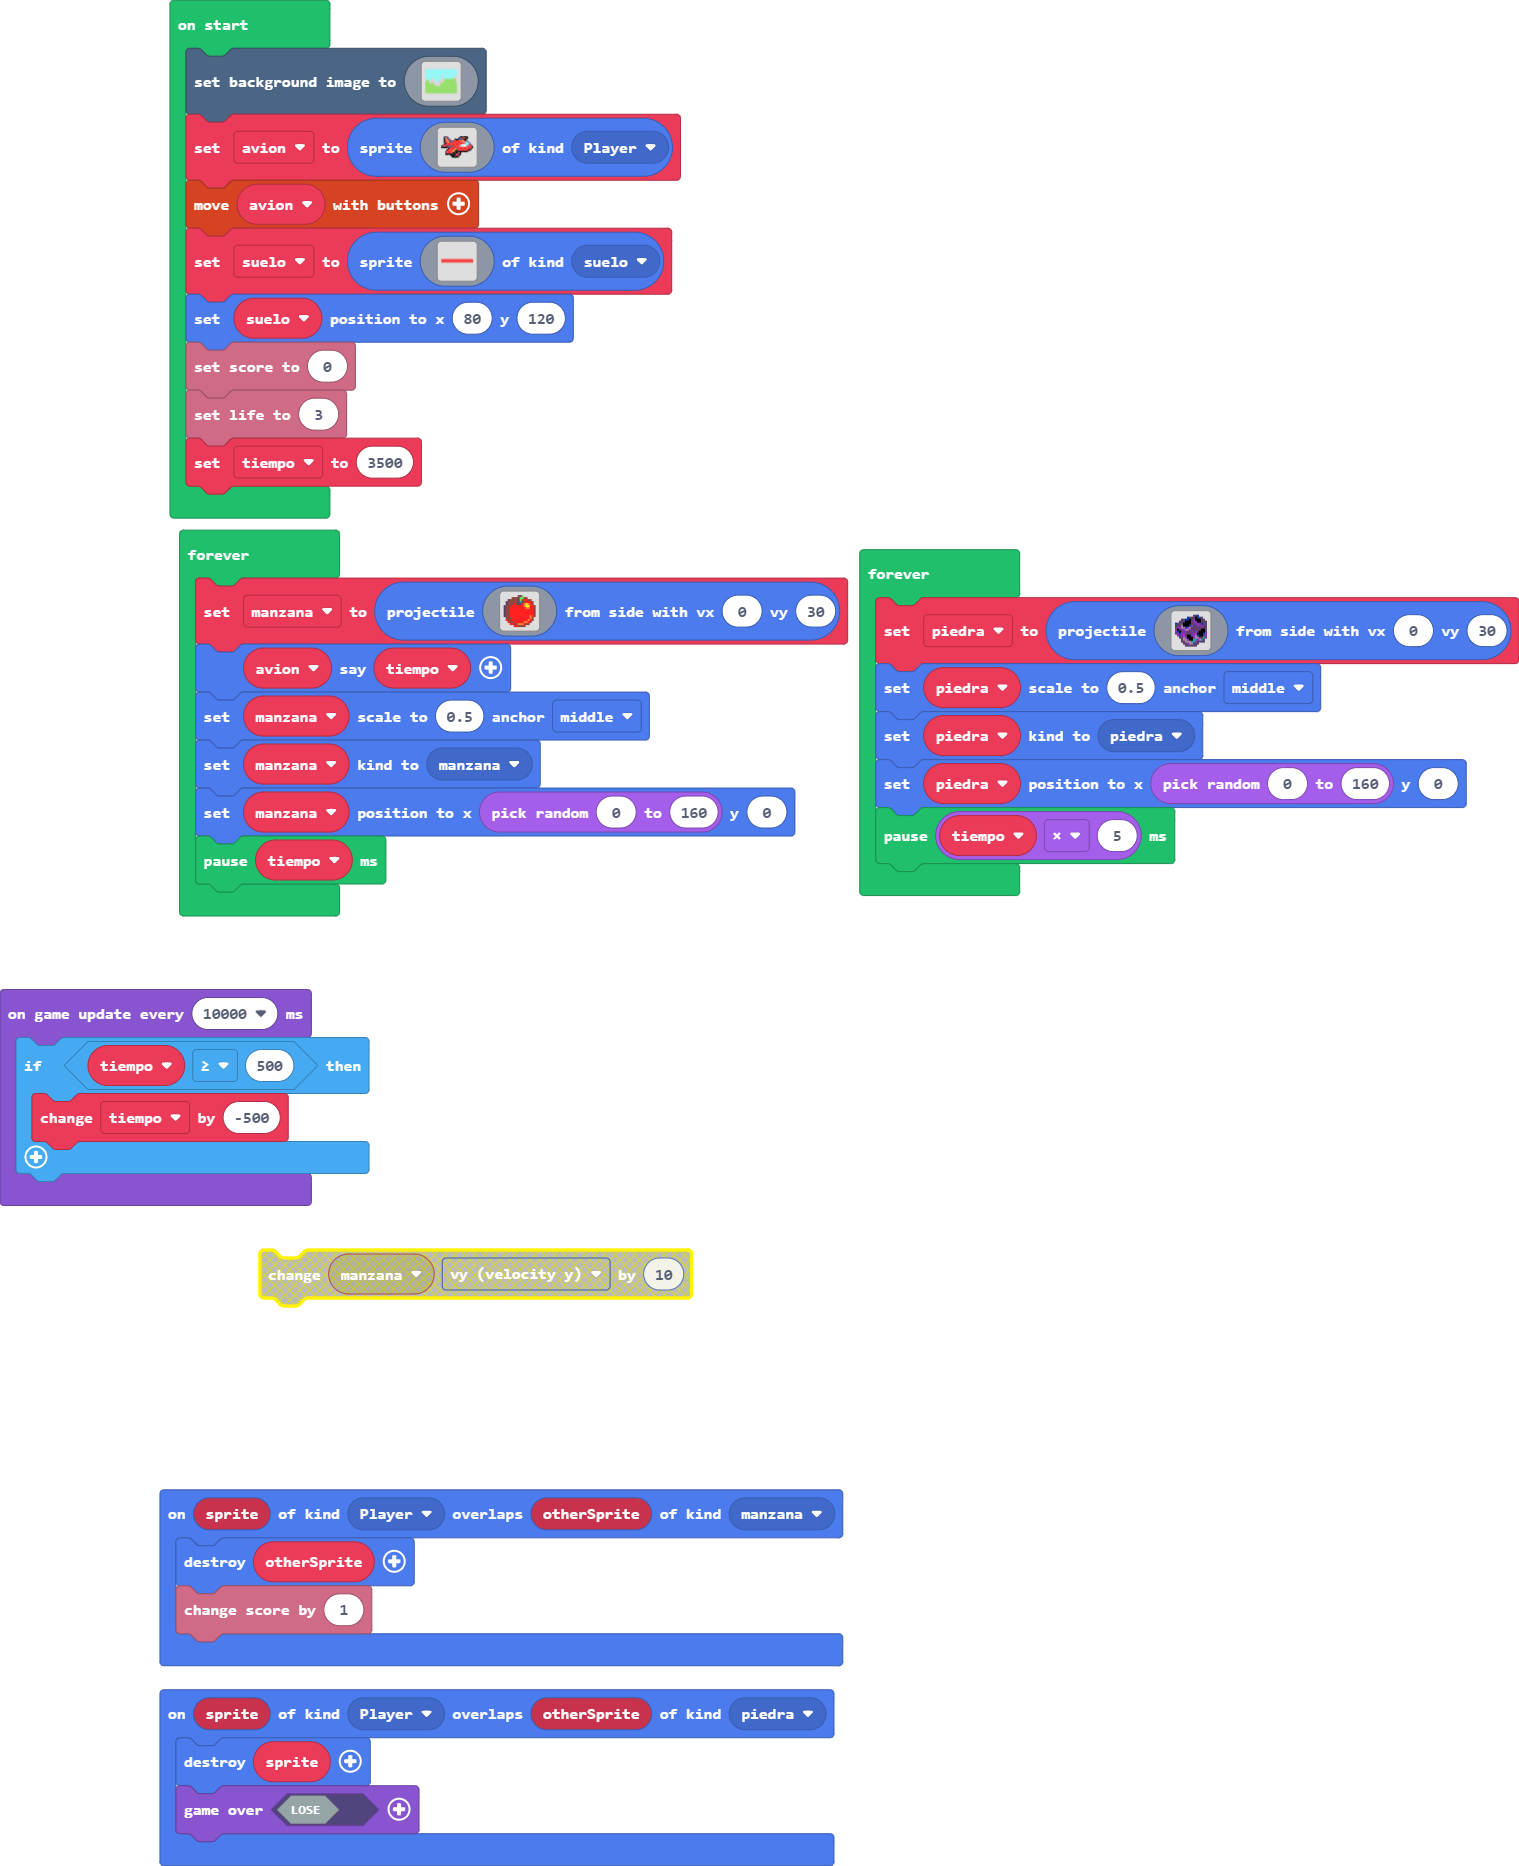
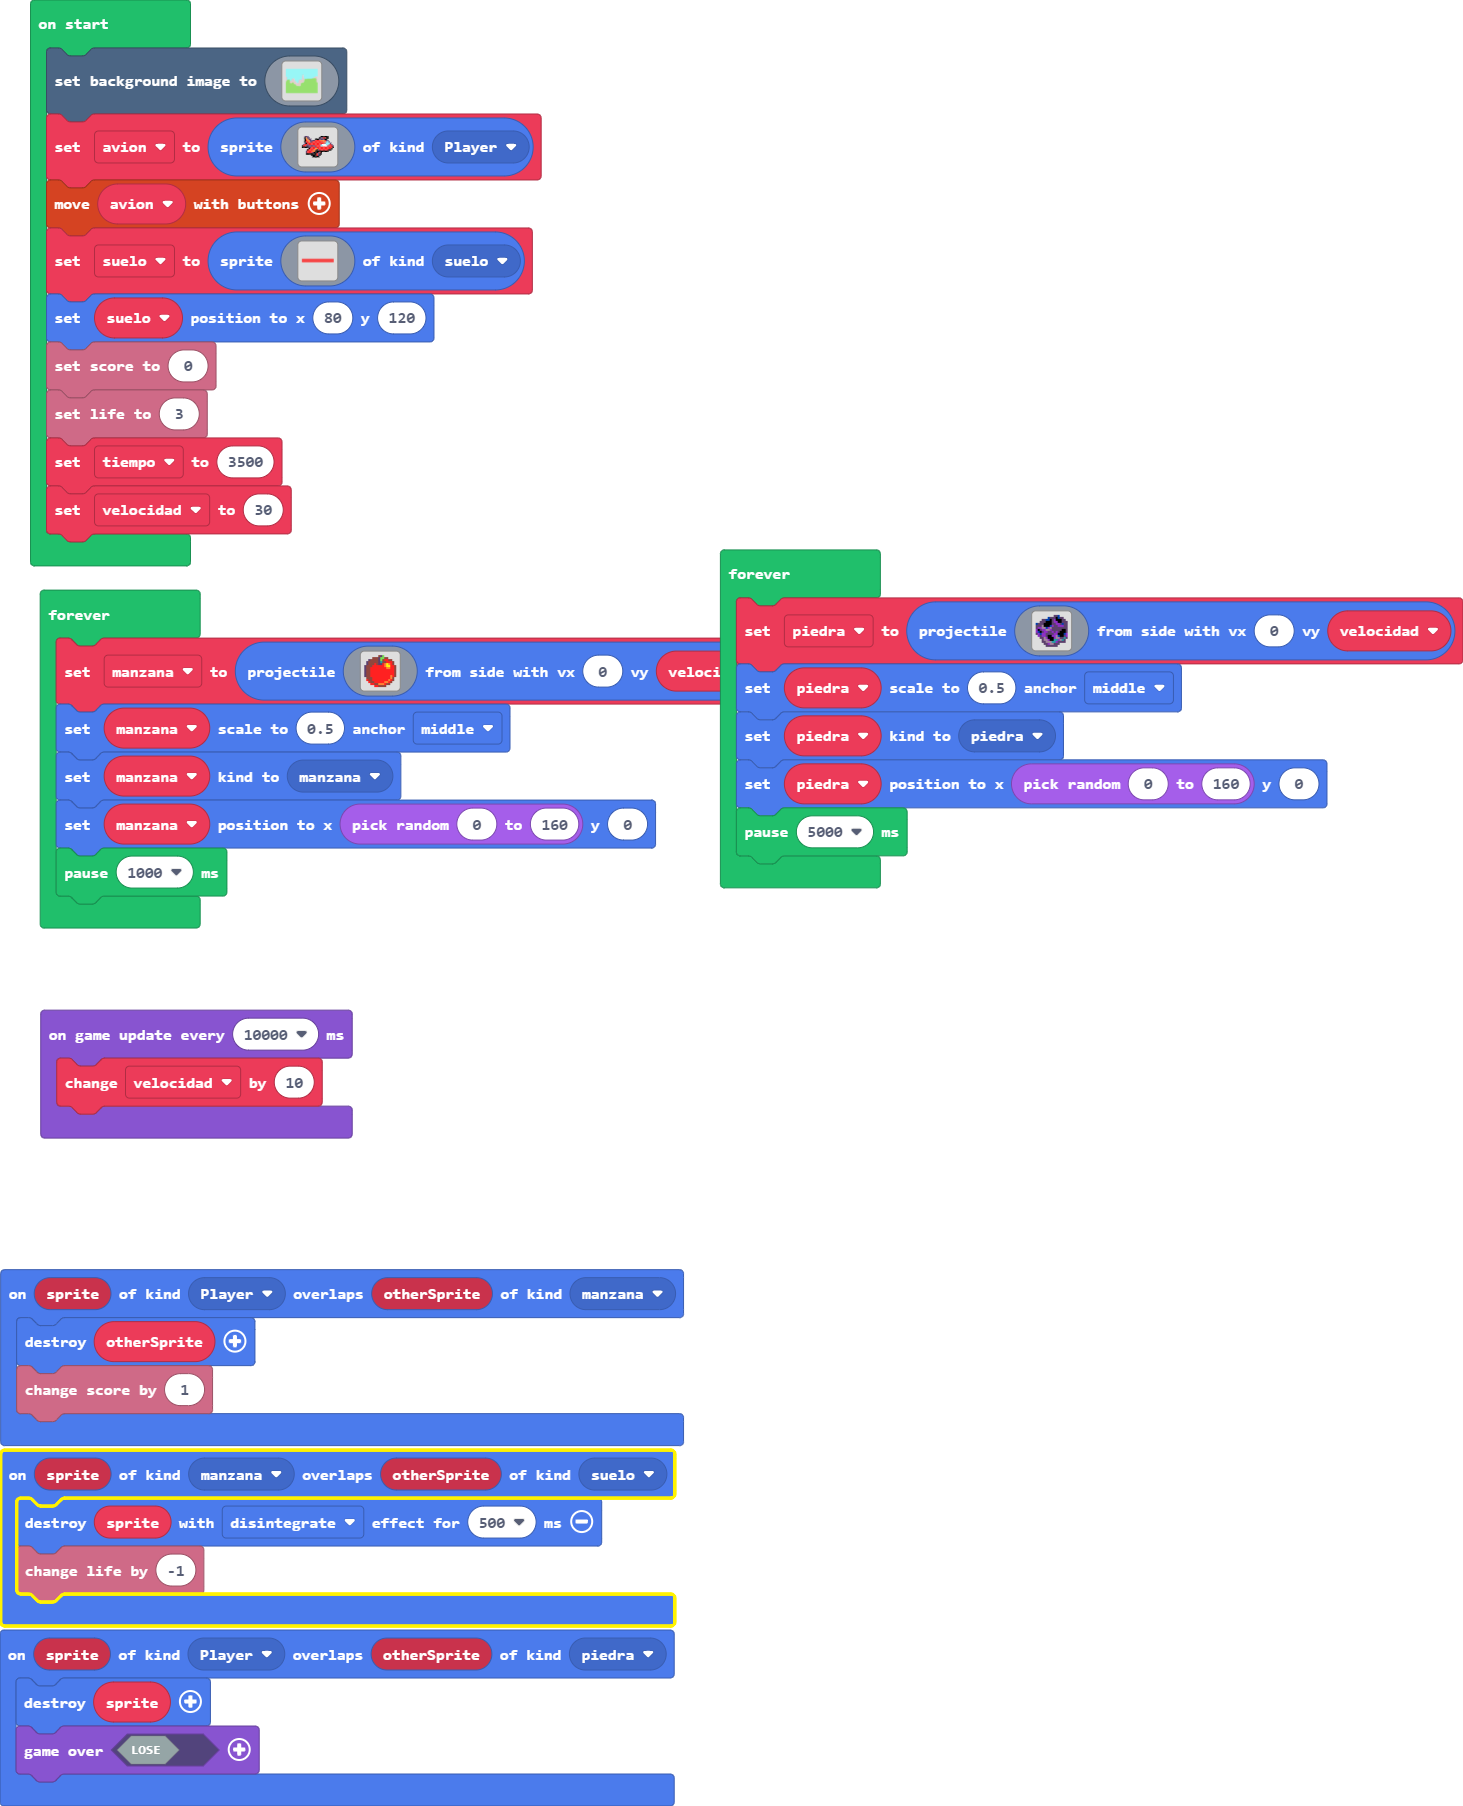
Update main.blocks, main.ts

diff --git a/main.ts b/main.ts
@@ -3,6 +3,10 @@ namespace SpriteKind {
     export const piedra = SpriteKind.create()
     export const suelo = SpriteKind.create()
 }
+sprites.onOverlap(SpriteKind.manzana, SpriteKind.suelo, function (sprite, otherSprite) {
+    sprite.destroy(effects.disintegrate, 500)
+    info.changeLifeBy(-1)
+})
 sprites.onOverlap(SpriteKind.Player, SpriteKind.piedra, function (sprite, otherSprite) {
     sprite.destroy()
     game.over(false)
@@ -11,8 +15,8 @@ sprites.onOverlap(SpriteKind.Player, SpriteKind.manzana, function (sprite, other
     otherSprite.destroy()
     info.changeScoreBy(1)
 })
-let piedra: Sprite = null
 let manzana: Sprite = null
+let piedra: Sprite = null
 scene.setBackgroundImage(img`
     9999999999999999999999999999999999999999999999999999999999999999999999999999999999999999999999999999999999999999999999999999999999999999999999999999999999999999
     9999999999999999999999999999999999999999999999999999999999999999999999999999999999999999999999999999999999999999999999999999999999999999999999999999999999999999
@@ -176,31 +180,7 @@ suelo.setPosition(80, 120)
 info.setScore(0)
 info.setLife(3)
 let tiempo = 3500
-forever(function () {
-    manzana = sprites.createProjectileFromSide(img`
-        . . . . . . . e c 7 . . . . . . 
-        . . . . e e e c 7 7 e e . . . . 
-        . . c e e e e c 7 e 2 2 e e . . 
-        . c e e e e e c 6 e e 2 2 2 e . 
-        . c e e e 2 e c c 2 4 5 4 2 e . 
-        c e e e 2 2 2 2 2 2 4 5 5 2 2 e 
-        c e e 2 2 2 2 2 2 2 2 4 4 2 2 e 
-        c e e 2 2 2 2 2 2 2 2 2 2 2 2 e 
-        c e e 2 2 2 2 2 2 2 2 2 2 2 2 e 
-        c e e 2 2 2 2 2 2 2 2 2 2 2 2 e 
-        c e e 2 2 2 2 2 2 2 2 2 2 4 2 e 
-        . e e e 2 2 2 2 2 2 2 2 2 4 e . 
-        . 2 e e 2 2 2 2 2 2 2 2 4 2 e . 
-        . . 2 e e 2 2 2 2 2 4 4 2 e . . 
-        . . . 2 2 e e 4 4 4 2 e e . . . 
-        . . . . . 2 2 e e e e . . . . . 
-        `, 0, 30)
-    avion.sayText(tiempo)
-    manzana.setScale(0.5, ScaleAnchor.Middle)
-    manzana.setKind(SpriteKind.manzana)
-    manzana.setPosition(randint(0, 160), 0)
-    pause(tiempo)
-})
+let velocidad = 30
 forever(function () {
     piedra = sprites.createProjectileFromSide(img`
         . . . . . . . . . c c 8 . . . . 
@@ -219,14 +199,36 @@ forever(function () {
         . . . c c b b b 6 6 a c c c c . 
         . . . . c c a b b c c c . . . . 
         . . . . . c c c c c c . . . . . 
-        `, 0, 30)
+        `, 0, velocidad)
     piedra.setScale(0.5, ScaleAnchor.Middle)
     piedra.setKind(SpriteKind.piedra)
     piedra.setPosition(randint(0, 160), 0)
-    pause(tiempo * 5)
+    pause(5000)
+})
+forever(function () {
+    manzana = sprites.createProjectileFromSide(img`
+        . . . . . . . e c 7 . . . . . . 
+        . . . . e e e c 7 7 e e . . . . 
+        . . c e e e e c 7 e 2 2 e e . . 
+        . c e e e e e c 6 e e 2 2 2 e . 
+        . c e e e 2 e c c 2 4 5 4 2 e . 
+        c e e e 2 2 2 2 2 2 4 5 5 2 2 e 
+        c e e 2 2 2 2 2 2 2 2 4 4 2 2 e 
+        c e e 2 2 2 2 2 2 2 2 2 2 2 2 e 
+        c e e 2 2 2 2 2 2 2 2 2 2 2 2 e 
+        c e e 2 2 2 2 2 2 2 2 2 2 2 2 e 
+        c e e 2 2 2 2 2 2 2 2 2 2 4 2 e 
+        . e e e 2 2 2 2 2 2 2 2 2 4 e . 
+        . 2 e e 2 2 2 2 2 2 2 2 4 2 e . 
+        . . 2 e e 2 2 2 2 2 4 4 2 e . . 
+        . . . 2 2 e e 4 4 4 2 e e . . . 
+        . . . . . 2 2 e e e e . . . . . 
+        `, 0, velocidad)
+    manzana.setScale(0.5, ScaleAnchor.Middle)
+    manzana.setKind(SpriteKind.manzana)
+    manzana.setPosition(randint(0, 160), 0)
+    pause(1000)
 })
 game.onUpdateInterval(10000, function () {
-    if (tiempo >= 500) {
-        tiempo += -500
-    }
+    velocidad += 10
 })
